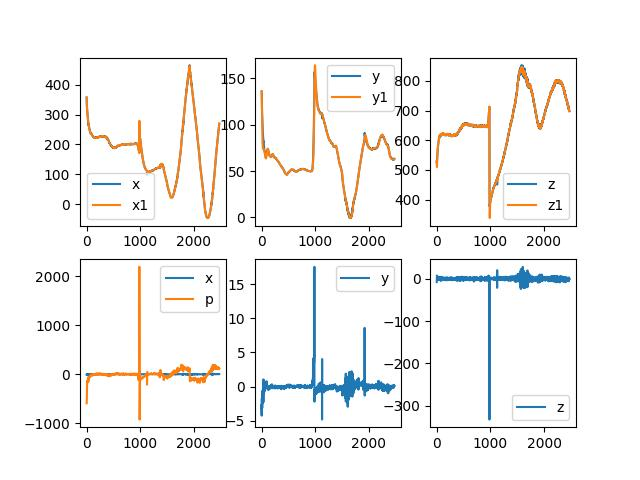
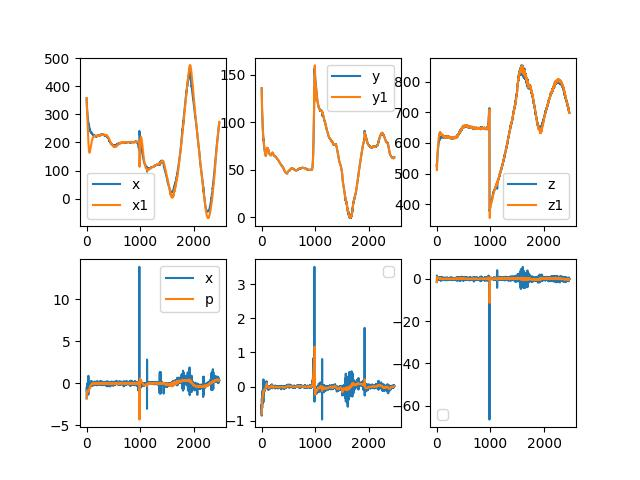
testpy debug

diff --git a/test.py b/test.py
@@ -1,6 +1,140 @@
-from matplotlib import pyplot as plt
-plt.ion()
-while True:
-    plt.clf()
-    plt.plot([1,2,3])
-    plt.pause(0.001)
+# 测试基于filterpy中线性kf的装甲板运动预测功能
+import matplotlib as mpl
+from mpl_toolkits.mplot3d import Axes3D
+import numpy as np
+import matplotlib.pyplot as plt
+import math
+from modules.ExtendKF import EKF
+import filterpy
+from filterpy.kalman import KalmanFilter
+from scipy.linalg import block_diag
+from filterpy.common import Q_discrete_white_noise
+deltaTime = 5 # 单位是ms
+filePath = './assets/ptsInCam.txt'
+
+yaw = 0/180*math.pi
+pitch = 0/180*math.pi
+gesture = [yaw,pitch] # 弧度制
+
+ptsInCam = np.loadtxt(filePath) # mm
+
+ptsInTripod = ptsInCam + np.array([0, 60, 50])
+
+yRotationMatrix = np.array([[math.cos(yaw),0,math.sin(yaw)],[0,1,0],[-math.sin(yaw),0,math.cos(yaw)]])
+xRotationMatrix = np.array([[1,0,0],[0,math.cos(pitch),-math.sin(pitch)],[0,math.sin(pitch),math.cos(pitch)]])
+
+# 云台坐标系->世界坐标系
+ptsInWorld = np.zeros((ptsInTripod.shape))
+i=0
+for single in ptsInTripod:
+    single = np.reshape(single, (3,1))    
+    ptsInWorld[i] = np.dot(yRotationMatrix, np.dot(xRotationMatrix,single)).T
+    i+=1
+
+# KF:
+R_std = 0.35
+Q_std = 0.04
+
+def tracker1():
+    
+    tracker = KalmanFilter(dim_x=6,dim_z=3)
+    tracker.F = np.array([[1,deltaTime,0,0,0,0],
+                        [0,1,0,0,0,0],
+                        [0,0,1,deltaTime,0,0],
+                        [0,0,0,1,0,0],
+                        [0,0,0,0,1,deltaTime],
+                        [0,0,0,0,0,1]])
+    tracker.u=0.
+    # Q矩阵-过程噪声矩阵
+    q = Q_discrete_white_noise(dim=3, dt=deltaTime, var=Q_std**2)
+    tracker.Q = block_diag(q, q)
+    print(tracker.Q)
+    # H矩阵-量测矩阵
+    tracker.H = np.array([[1, 0, 0,        0,0,0],
+                        [0,        0, 1, 0,0,0],
+                        [0,0,0,0,1,0]])
+    # R矩阵-量测噪声矩阵
+    tracker.R = np.eye(3) * R_std**2
+    
+    tracker.x = np.array([[ptsInWorld[1][0], 
+                           (ptsInWorld[2][0]-ptsInWorld[1][0])/deltaTime,
+                             ptsInWorld[0][1],
+                               (ptsInWorld[2][1]-ptsInWorld[1][1])/deltaTime,
+                               ptsInWorld[0][2],
+                               (ptsInWorld[2][2]-ptsInWorld[1][2])/deltaTime
+                               ]]).T
+    tracker.P = np.eye(6) * 500.
+    return tracker
+
+# run filter
+robot_tracker = tracker1()
+mu, cov, _, _ = robot_tracker.batch_filter(ptsInWorld[1:,:])
+
+data = ptsInWorld[1:,:]
+data1 = mu
+
+
+length = data.shape[0]
+
+x = np.linspace(0, length-1, length)
+fig = plt.figure()
+ax1 = fig.add_subplot(2,3,1)
+ax1.plot(x, data[:,0], x, data1[:,0])
+ax1.legend(['x','x1'])
+ax4 = fig.add_subplot(2,3,2)
+ax4.plot(x, data[:,1], x, data1[:,1])
+ax4.legend(['y','y1'])
+ax5 = fig.add_subplot(2,3,3)
+ax5.plot(x, data[:,2], x, data1[:,2])
+ax5.legend(['z','z1'])
+
+
+# 速度绘图：
+length = data.shape[0]
+x = np.linspace(0, length-1, length)
+print(x)
+data2 = ptsInWorld
+dx = np.diff(data2[:,0]).T / deltaTime
+dy = np.diff(data2[:,1]).T / deltaTime
+dz = np.diff(data2[:,2]).T / deltaTime
+
+
+ax2 = fig.add_subplot(2,3,4)
+ax2.plot(x,dx,x,mu[:,1])
+ax2.legend(['x','p'])
+ax3 = fig.add_subplot(2,3,5)
+ax3.plot(x,dy,x,mu[:,3])
+ax3.legend('y','p')
+ax4 = fig.add_subplot(2,3,6)
+ax4.plot(x,dz,x,mu[:,5])
+ax4.legend('z','p')
+
+
+plt.savefig('./assets/ptsInWorld.jpg')
+
+
+ 
+mpl.rcParams['legend.fontsize'] = 10
+ 
+fig = plt.figure()
+ax = fig.add_subplot(projection = '3d')
+#ax = Axes3D(fig)
+x=data[:,0]
+y=data[:,2]
+z=data[:,1]*(-1)
+
+x1=data1[:,0]
+y1=data1[:,2]
+z1=data1[:,1]*(-1)
+
+ax.set_box_aspect((1,1,1))
+ax.plot(x,y,z, label='ori')
+ax.plot(x1,y1,z1, label='ekf')
+ax.legend()
+
+print(ax.get_xticks())
+ 
+plt.savefig('./assets/test.jpg')
+plt.show()
+
+

diff --git a/testEKF.py b/testEKF.py
@@ -40,8 +40,8 @@ for i in range(ptsInWorld.shape[0]):
     x = ptsInCam[i,0]
     y = ptsInCam[i,1]
     z = ptsInCam[i,2]
-    alpha = math.atan(x/z)
-    beta = math.atan(y/z)
+    alpha = math.atan(-x/z)
+    beta = math.atan(-y/z)
     observation = [z, alpha, beta]
 
     all_z.append(z)
@@ -49,7 +49,7 @@ for i in range(ptsInWorld.shape[0]):
     all_beta.append(beta)
     #print(observation)
 
-    deltaTime = 15*1e-3
+    deltaTime = 5
 
     if ekf.first==False:
         state[1,0] = (ptsInWorld[i,0] - ptsInWorld[i-1,0])/deltaTime
@@ -102,19 +102,19 @@ ax5.legend(['z','z1'])
 length = data.shape[0]-1
 x = np.linspace(0, length-1, length)
 print(x)
-dx = np.diff(data[:,0]).T
-dy = np.diff(data[:,1]).T
-dz = np.diff(data[:,2]).T
+dx = np.diff(data[:,0]).T / deltaTime
+dy = np.diff(data[:,1]).T / deltaTime
+dz = np.diff(data[:,2]).T / deltaTime
 
 ax2 = fig.add_subplot(2,3,4)
 ax2.plot(x,dx,x,pdx[1:])
 ax2.legend(['x','p'])
 ax3 = fig.add_subplot(2,3,5)
-ax3.plot(x,dy)
-ax3.legend('y')
+ax3.plot(x,dy,x,pdy[1:])
+ax3.legend('y','p')
 ax4 = fig.add_subplot(2,3,6)
-ax4.plot(x,dz)
-ax4.legend('z')
+ax4.plot(x,dz,x,pdz[1:])
+ax4.legend('z','p')
 
 
 plt.savefig('./assets/ptsInWorld.jpg')

diff --git a/main.py b/main.py
@@ -72,11 +72,11 @@ def getObservation(ptsInCam):
     return observation
 
 #################################################
-debug = False
+debug = True
 useCamera = True
 exposureMs = 1 # 相机曝光时间
 useSerial = False
-enablePredict = True  # 开启KF滤波与预测
+enablePredict = False  # 开启KF滤波与预测
 savePts = True # 是否把相机坐标系下的坐标保存txt文件
 enableDrawKF = False
 functionType = FunctionType.autoaim
